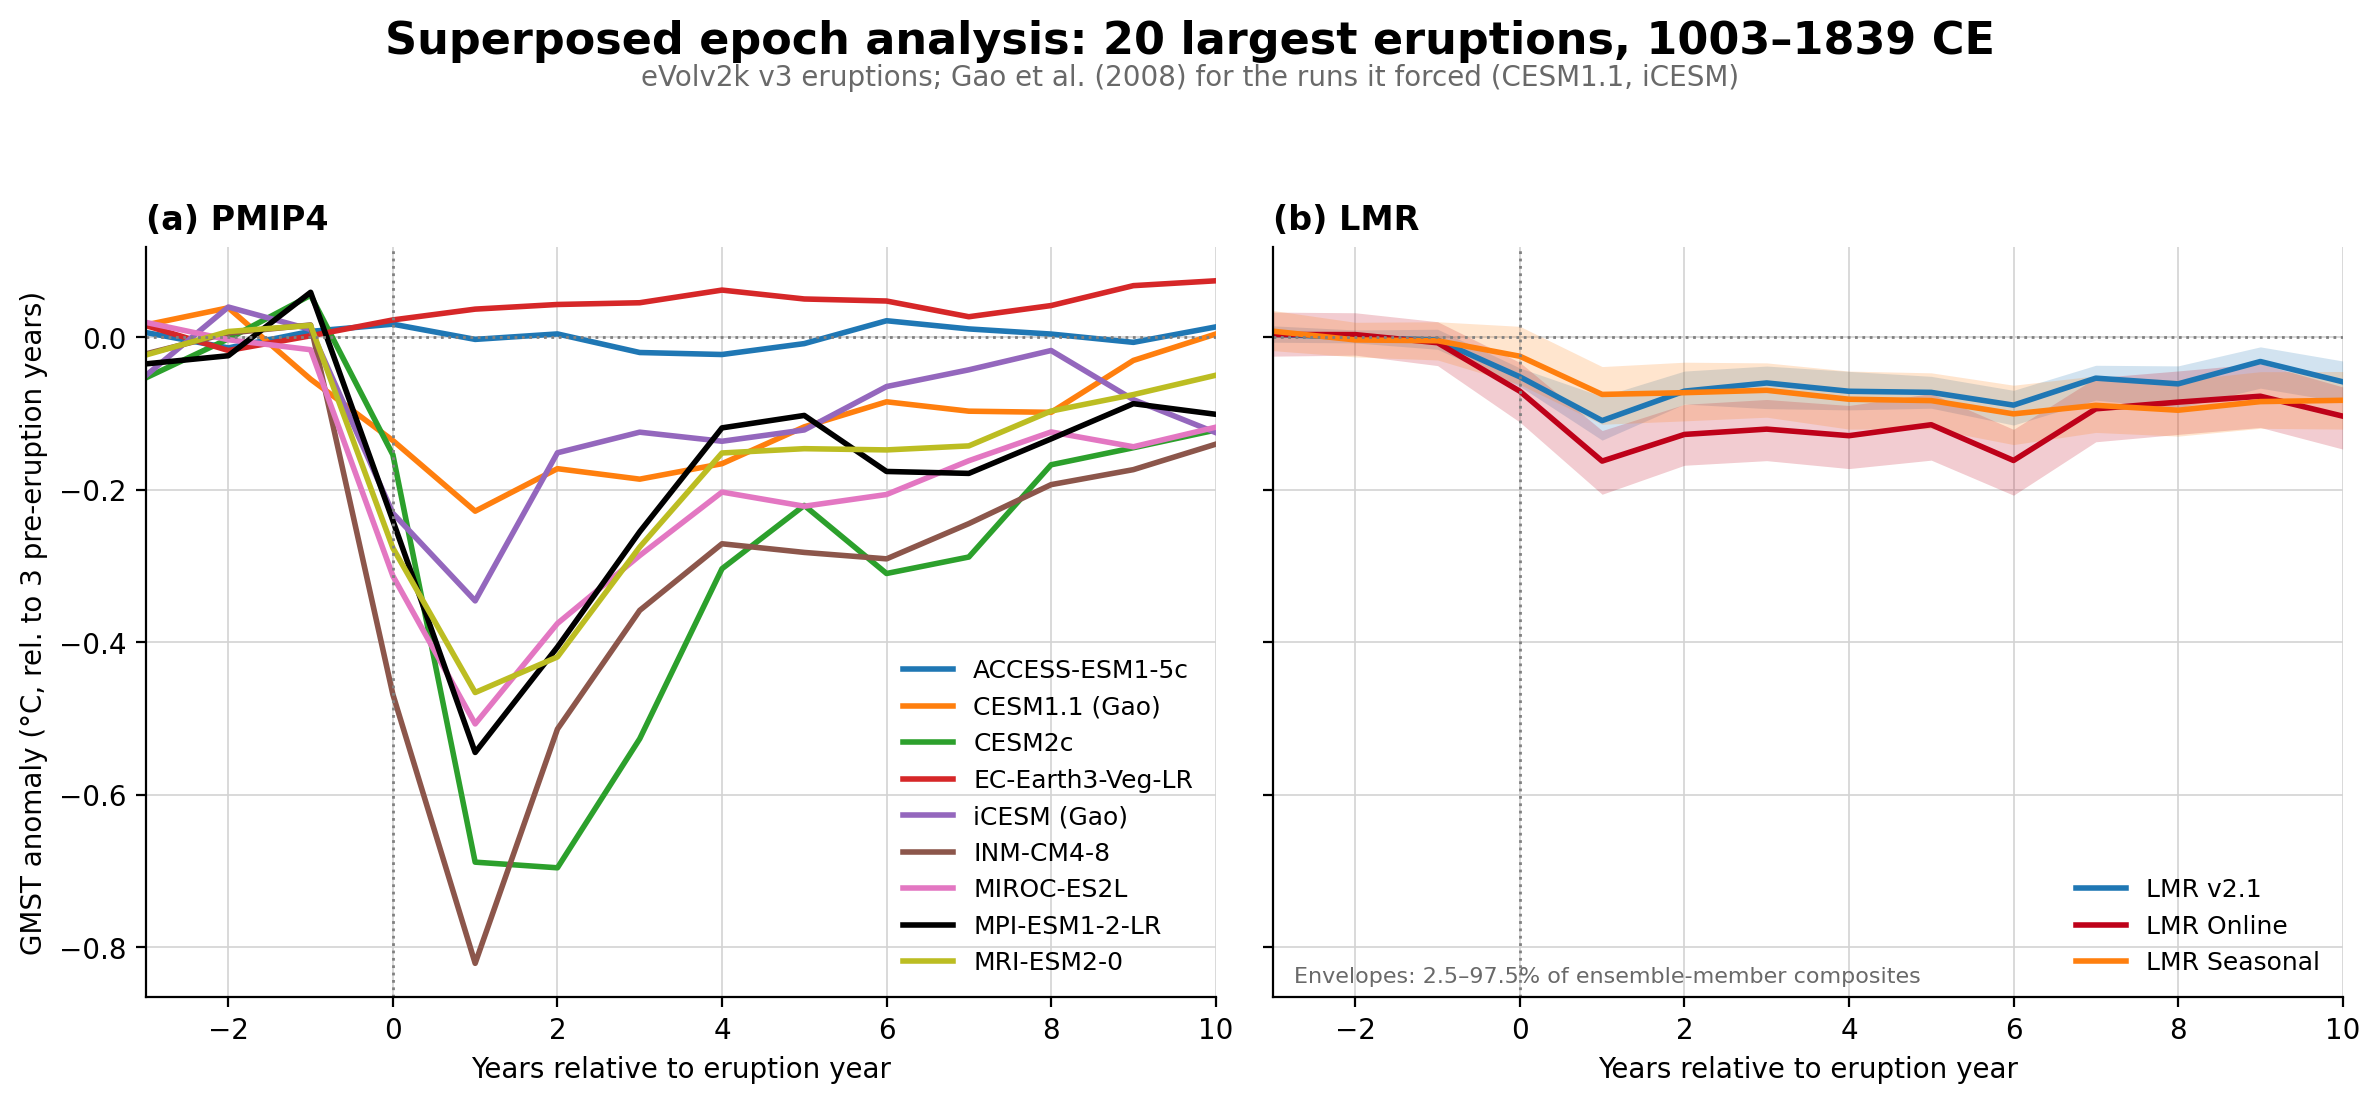
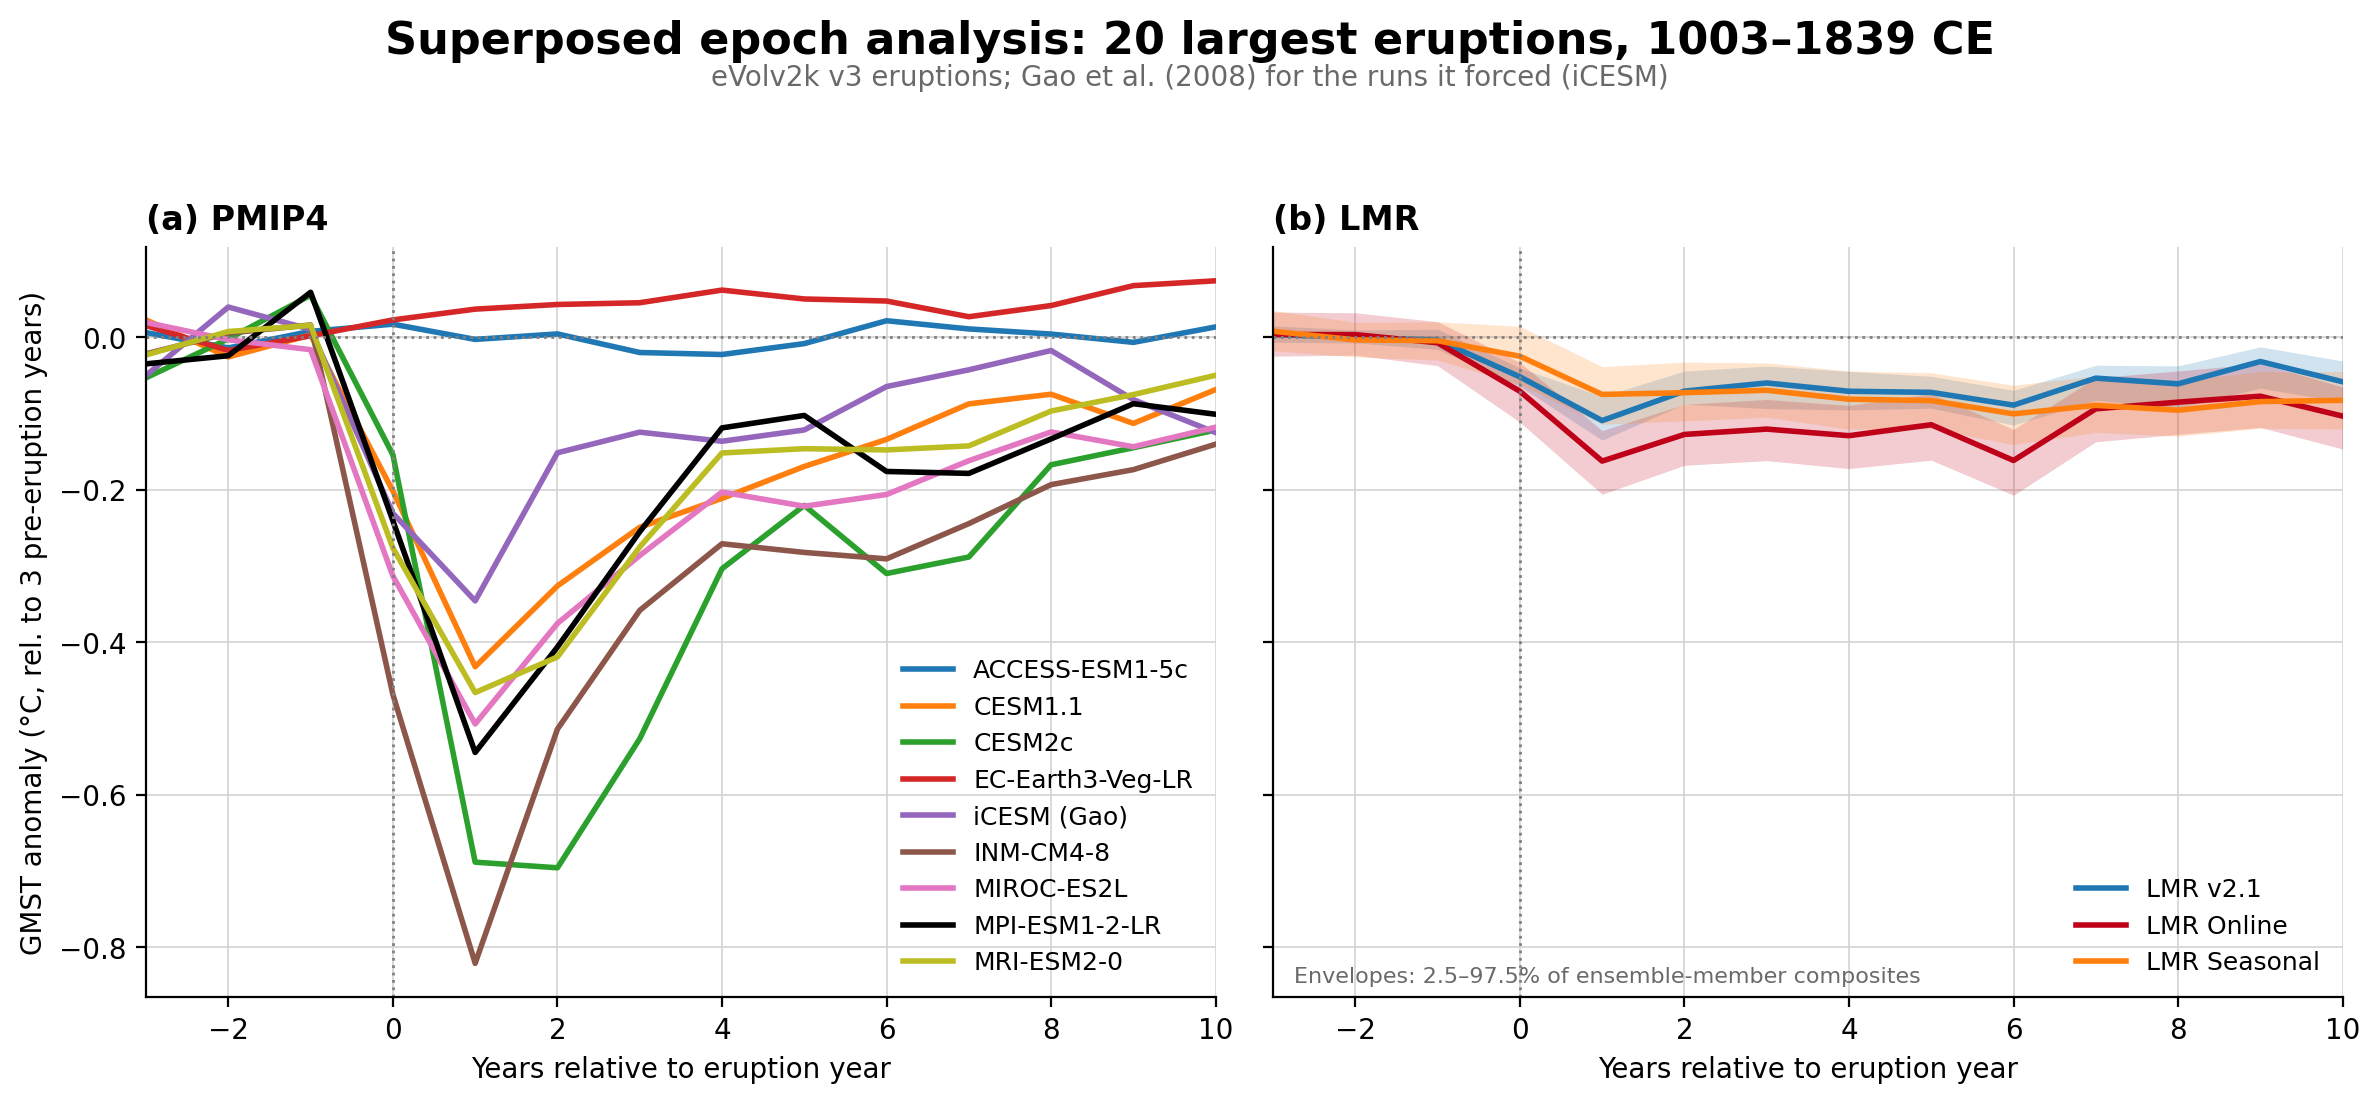
CESM1.1 is eVolv2k-forced, not Gao; anchor script paths to the repo
CESM1.1 (the past2k run, 1-2005 CE) uses the PMIP4 EVA (eVolv2k) aerosol
with mass scaled x1.67 (Zhong et al. 2018, doi:10.5281/zenodo.1304427), not
Gao et al. (2008). Its GMST agrees: over the 24 largest eruptions of
997-1900 it cools 0.29 C over lags 0-2 with eVolv2k dates vs 0.13 C with
Gao dates. Only iCESM stays in VOLCANIC_FORCING as gao2008.

- pmip4_config.VOLCANIC_FORCING: drop CESM1.1 (falls back to evolv2k)
- volcanic.py docstring, README: correct the forcing attribution
- data_config.yml: CESM1.1 is the past2k run, not past1000
- PMIP4_LMR_volcanic_SEA.py: figure note reads the Gao runs from the config;
  figure and table regenerated
- code/*.py: sys.path and output folders were relative to the current
  directory, so running a script from the repo root imported a namespace
  package and wrote results outside the repo; anchor both to __file__

diff --git a/code/PMIP4_LMR_volcanic_SEA.py b/code/PMIP4_LMR_volcanic_SEA.py
@@ -18,7 +18,7 @@ lag-0 years 1005-1839. Lag 0 is the eruption year of that record.
   - eVolv2k v3 (ranked by VSSI): the PMIP4 protocol forcing, used for most
     PMIP4 runs and for all LMR versions.
   - Gao et al. (2008) IVI2 (ranked by global sulfate injection; read
-    remotely): for the runs forced with it, CESM1.1 and iCESM
+    remotely): for the run forced with it, iCESM
     (pmip4_config.VOLCANIC_FORCING).
 
 LMR: the SEA is applied to every ensemble member. The line is the composite
@@ -52,14 +52,15 @@ import numpy as np
 import pandas as pd
 import matplotlib.pyplot as plt
 
-sys.path.insert(0, '..')
+sys.path.insert(0, str(Path(__file__).resolve().parent.parent))
 from ce_fields import DataConfig, LMR, display_name
 from ce_fields.pmip4_config import get_model_colors, VOLCANIC_FORCING
 from ce_fields.stitch_corrections import load_gmst_anomalies
 from ce_fields.volcanic import largest_eruptions, sea, sea_ensemble
 
-FIGURE_FOLDER = Path('../results/figures')
-TABLE_FOLDER = Path('../results/tables')
+REPO_ROOT = Path(__file__).resolve().parent.parent   # outputs land in ce_fields/results wherever the script is run from
+FIGURE_FOLDER = REPO_ROOT / 'results' / 'figures'
+TABLE_FOLDER = REPO_ROOT / 'results' / 'tables'
 FIGURE_FOLDER.mkdir(parents=True, exist_ok=True)
 TABLE_FOLDER.mkdir(parents=True, exist_ok=True)
 
@@ -174,7 +175,8 @@ axs[1].text(0.02, 0.02, f'Envelopes: {QUANTILES[0]:g}–{QUANTILES[1]:g}% of ens
             transform=axs[1].transAxes, fontsize=8, color='dimgray')
 fig.suptitle(f'Superposed epoch analysis: {N_EVENTS} largest eruptions, '
              f'{EVENT_RANGE[0]}–{EVENT_RANGE[1]} CE', fontsize=16, fontweight='bold', y=0.995)
-fig.text(0.5, 0.935, 'eVolv2k v3 eruptions; Gao et al. (2008) for the runs it forced (CESM1.1, iCESM)',
+gao_note = ', '.join(sorted(gao_models))
+fig.text(0.5, 0.935, f'eVolv2k v3 eruptions; Gao et al. (2008) for the runs it forced ({gao_note})',
          ha='center', fontsize=10, color='dimgray')
 fig.tight_layout(rect=(0, 0, 1, 0.92))
 

diff --git a/code/PMIP4_GMST_sanity_check.py b/code/PMIP4_GMST_sanity_check.py
@@ -16,7 +16,7 @@ import cftime as _cftime
 from pathlib import Path
 from tqdm import tqdm
 
-sys.path.insert(0, '..')
+sys.path.insert(0, str(Path(__file__).resolve().parent.parent))
 from ce_fields.data_config import DataConfig
 from ce_fields.io import open_nc_or_zarr
 from ce_fields.stitch_corrections import GMST_ANOMALIES_CSV
@@ -45,7 +45,8 @@ class _Tee:
 
 config = DataConfig()
 
-_log_dir = Path('../results/logs')
+REPO_ROOT = Path(__file__).resolve().parent.parent   # outputs land in ce_fields/results wherever the script is run from
+_log_dir = REPO_ROOT / 'results' / 'logs'
 _log_dir.mkdir(parents=True, exist_ok=True)
 _log_path = _log_dir / 'PMIP4_GMST_sanity_check.log'
 _logfile  = open(_log_path, 'w')
@@ -60,8 +61,8 @@ CMIP_HIST_MODELS = get_cmip_hist_models(config)
 
 CFTIME_CODER = xr.coders.CFDatetimeCoder(use_cftime=True)
 
-FIGURE_FOLDER = Path('../results/figures/')
-DATA_FOLDER   = Path('../results/data/')
+FIGURE_FOLDER = REPO_ROOT / 'results' / 'figures'
+DATA_FOLDER   = REPO_ROOT / 'results' / 'data'
 FIGURE_FOLDER.mkdir(parents=True, exist_ok=True)
 DATA_FOLDER.mkdir(parents=True, exist_ok=True)
 

diff --git a/ce_fields/volcanic.py b/ce_fields/volcanic.py
@@ -3,9 +3,9 @@ Volcanic forcing (eVolv2k v3, Gao et al. 2008) and superposed epoch analysis (SE
 
 eVolv2k (Toohey and Sigl, 2017) is the volcanic forcing of the PMIP4
 past1000/past2k experiments; it ships with the package (see
-ce_fields/data/eVolv2k_v3/README.md for why it lives here). A few runs
-(CESM1.1, iCESM; see pmip4_config.VOLCANIC_FORCING) were instead forced with
-Gao et al. (2008, IVI2), which is read remotely from Rutgers.
+ce_fields/data/eVolv2k_v3/README.md for why it lives here). iCESM (see
+pmip4_config.VOLCANIC_FORCING) was instead forced with Gao et al. (2008,
+IVI2), which is read remotely from Rutgers.
 
 The SEA follows the LMR volcanic analysis (LMR_VolcanicResponse_sea.py /
 gmt_volcanicSEA2.py, Emile-Geay 2017): for each event, take the window

diff --git a/code/Antarctic_BH_surface_temp.py b/code/Antarctic_BH_surface_temp.py
@@ -32,7 +32,7 @@ import numpy as np
 import xarray as xr
 from pathlib import Path
 
-sys.path.insert(0, '..')
+sys.path.insert(0, str(Path(__file__).resolve().parent.parent))
 from ce_fields.data_config import DataConfig
 from ce_fields.pmip4_config import get_pmip4_models
 from ce_fields.products import load_corrected_tas
@@ -72,7 +72,8 @@ print(f"[{_ts()}] Environment : {config.environment}")
 
 PMIP4_MODELS = get_pmip4_models(config)
 
-DATA_FOLDER = Path('../results/data')
+REPO_ROOT = Path(__file__).resolve().parent.parent   # outputs land in ce_fields/results wherever the script is run from
+DATA_FOLDER = REPO_ROOT / 'results' / 'data'
 DATA_FOLDER.mkdir(parents=True, exist_ok=True)
 
 print(f"[{_ts()}] Sites       : {SITE_NAMES}")

diff --git a/code/plot_Antarctic_BH_surface_temp.py b/code/plot_Antarctic_BH_surface_temp.py
@@ -33,12 +33,13 @@ import xarray as xr
 import matplotlib.pyplot as plt
 from matplotlib.lines import Line2D
 
-sys.path.insert(0, '..')
+sys.path.insert(0, str(Path(__file__).resolve().parent.parent))
 from ce_fields.data_config import DataConfig
 from ce_fields.pmip4_config import get_model_colors
 
-DATA_FOLDER = Path('../results/data')
-FIGURE_FOLDER = Path('../results/figures')
+REPO_ROOT = Path(__file__).resolve().parent.parent   # outputs land in ce_fields/results wherever the script is run from
+DATA_FOLDER = REPO_ROOT / 'results' / 'data'
+FIGURE_FOLDER = REPO_ROOT / 'results' / 'figures'
 FIGURE_FOLDER.mkdir(parents=True, exist_ok=True)
 
 # =============================================================================

diff --git a/ce_fields/pmip4_config.py b/ce_fields/pmip4_config.py
@@ -33,10 +33,10 @@ YEAR_OFFSETS = {
 #   file (105001-110812 is followed by 111001-120912), issue #6.
 
 # Volcanic forcing of each paleo run (default 'evolv2k', the PMIP4 protocol;
-# see ce_fields.volcanic). CESM1.1 and
-# iCESM were forced with Gao et al. (2008) instead.
+# see ce_fields.volcanic). iCESM was forced with Gao et al. (2008) instead.
+# CESM1.1 (past2k) uses eVolv2k via EVA, with aerosol mass scaled x1.67
+# (Zhong et al. 2018, doi:10.5281/zenodo.1304427), so it takes the default.
 VOLCANIC_FORCING = {
-    'CESM1.1': 'gao2008',
     'iCESM': 'gao2008',
 }
 

diff --git a/code/diagnose_cesm2_1850_singularity.py b/code/diagnose_cesm2_1850_singularity.py
@@ -38,11 +38,12 @@ Needs the real PMIP4 data mounted (HPC only). Run from the code/ directory:
 """
 
 import sys
+from pathlib import Path
 
 import numpy as np
 import xarray as xr
 
-sys.path.insert(0, '..')
+sys.path.insert(0, str(Path(__file__).resolve().parent.parent))
 from ce_fields.data_config import DataConfig
 from ce_fields.io import open_nc_or_zarr
 from ce_fields.pmip4_config import get_pmip4_models, MODEL_VAR

diff --git a/code/diagnose_cesm2_gap2.py b/code/diagnose_cesm2_gap2.py
@@ -19,8 +19,9 @@ Needs the real PMIP4 data mounted (HPC only). Run from the code/ directory:
 """
 
 import sys
+from pathlib import Path
 
-sys.path.insert(0, '..')
+sys.path.insert(0, str(Path(__file__).resolve().parent.parent))
 from ce_fields.data_config import DataConfig
 from ce_fields.io import open_nc_or_zarr
 from ce_fields.pmip4_config import get_pmip4_models, get_cmip_hist_models, MODEL_VAR

diff --git a/code/diagnose_cesm2_gap3.py b/code/diagnose_cesm2_gap3.py
@@ -17,8 +17,9 @@ Needs the real PMIP4 data mounted (HPC only). Run from the code/ directory:
 """
 
 import sys
+from pathlib import Path
 
-sys.path.insert(0, '..')
+sys.path.insert(0, str(Path(__file__).resolve().parent.parent))
 from ce_fields.data_config import DataConfig
 from ce_fields.io import open_nc_or_zarr
 from ce_fields.pmip4_config import get_pmip4_models, get_cmip_hist_models

diff --git a/code/diagnose_cesm2_gap.py b/code/diagnose_cesm2_gap.py
@@ -20,7 +20,7 @@ Needs the real PMIP4 data mounted (HPC only). Run from the code/ directory:
 import sys
 from pathlib import Path
 
-sys.path.insert(0, '..')
+sys.path.insert(0, str(Path(__file__).resolve().parent.parent))
 from ce_fields.data_config import DataConfig
 from ce_fields.io import open_nc_or_zarr
 

diff --git a/code/apply_1850_adjustments.py b/code/apply_1850_adjustments.py
@@ -39,7 +39,7 @@ from pathlib import Path
 
 import xarray as xr
 
-sys.path.insert(0, '..')
+sys.path.insert(0, str(Path(__file__).resolve().parent.parent))
 from ce_fields.data_config import DataConfig
 from ce_fields.pmip4_config import MODEL_VAR
 from ce_fields.io import open_nc_or_zarr

diff --git a/README.md b/README.md
@@ -122,8 +122,8 @@ CMIP6 historical where needed, with the pre-1850 corrections applied
 The package also ships the eVolv2k v3 volcanic forcing (Toohey and Sigl,
 2017; `ce_fields/data/eVolv2k_v3/`, loaded with `ce_fields.load_evolv2k()`),
 used by `ce_fields.sea()` for superposed epoch analysis of volcanic responses
-(`code/PMIP4_LMR_volcanic_SEA.py`). For the runs forced with Gao et al. (2008)
-instead (CESM1.1, iCESM; `pmip4_config.VOLCANIC_FORCING`), `ce_fields.load_gao2008()`
+(`code/PMIP4_LMR_volcanic_SEA.py`). For iCESM, which was forced with Gao et al. (2008)
+instead (`pmip4_config.VOLCANIC_FORCING`), `ce_fields.load_gao2008()`
 reads that record remotely.
 
 ![Superposed epoch analysis of PMIP4 and LMR GMST](results/figures/PMIP4_LMR_volcanic_SEA.png)
@@ -200,12 +200,20 @@ by `111001-120912`), so it cannot be recovered. `load_stitched_tas()` keeps the
 year axis consecutive and returns 1109 as NaN, and it is NaN in
 `PMIP4_GMST_anomalies.csv`.
 
-### CESM1.1 and iCESM: Gao et al. (2008) volcanic forcing
+### iCESM: Gao et al. (2008) volcanic forcing
 
-These two runs were forced with Gao et al. (2008, IVI2) rather than the PMIP4
-eVolv2k record. The two records differ in eruption dates (often by a year) and
-in which eruptions are largest, so volcanic analyses should use each run's own
-record (`pmip4_config.VOLCANIC_FORCING`).
+iCESM was forced with Gao et al. (2008, IVI2) rather than the PMIP4 eVolv2k
+record (Brady et al., 2019). The two records differ in eruption dates (often by
+a year) and in which eruptions are largest, so volcanic analyses should use each
+run's own record (`pmip4_config.VOLCANIC_FORCING`).
+
+CESM1.1 (the `past2k` run, 1–2005 CE) is *not* Gao-forced, although earlier
+versions of this package said so. It uses the PMIP4 EVA (eVolv2k) aerosol, with
+the aerosol mass scaled by 1.67 so that CESM, which assumes a constant effective
+radius, matches the EVA optical depth ([Zhong et al., 2018, forcing
+files](https://doi.org/10.5281/zenodo.1304427)). Its GMST agrees: averaged over
+the 24 largest eruptions of 997–1900, it cools by 0.29 °C over lags 0–2 with
+eVolv2k dates, against 0.13 °C with Gao dates.
 
 ## Data configuration
 
